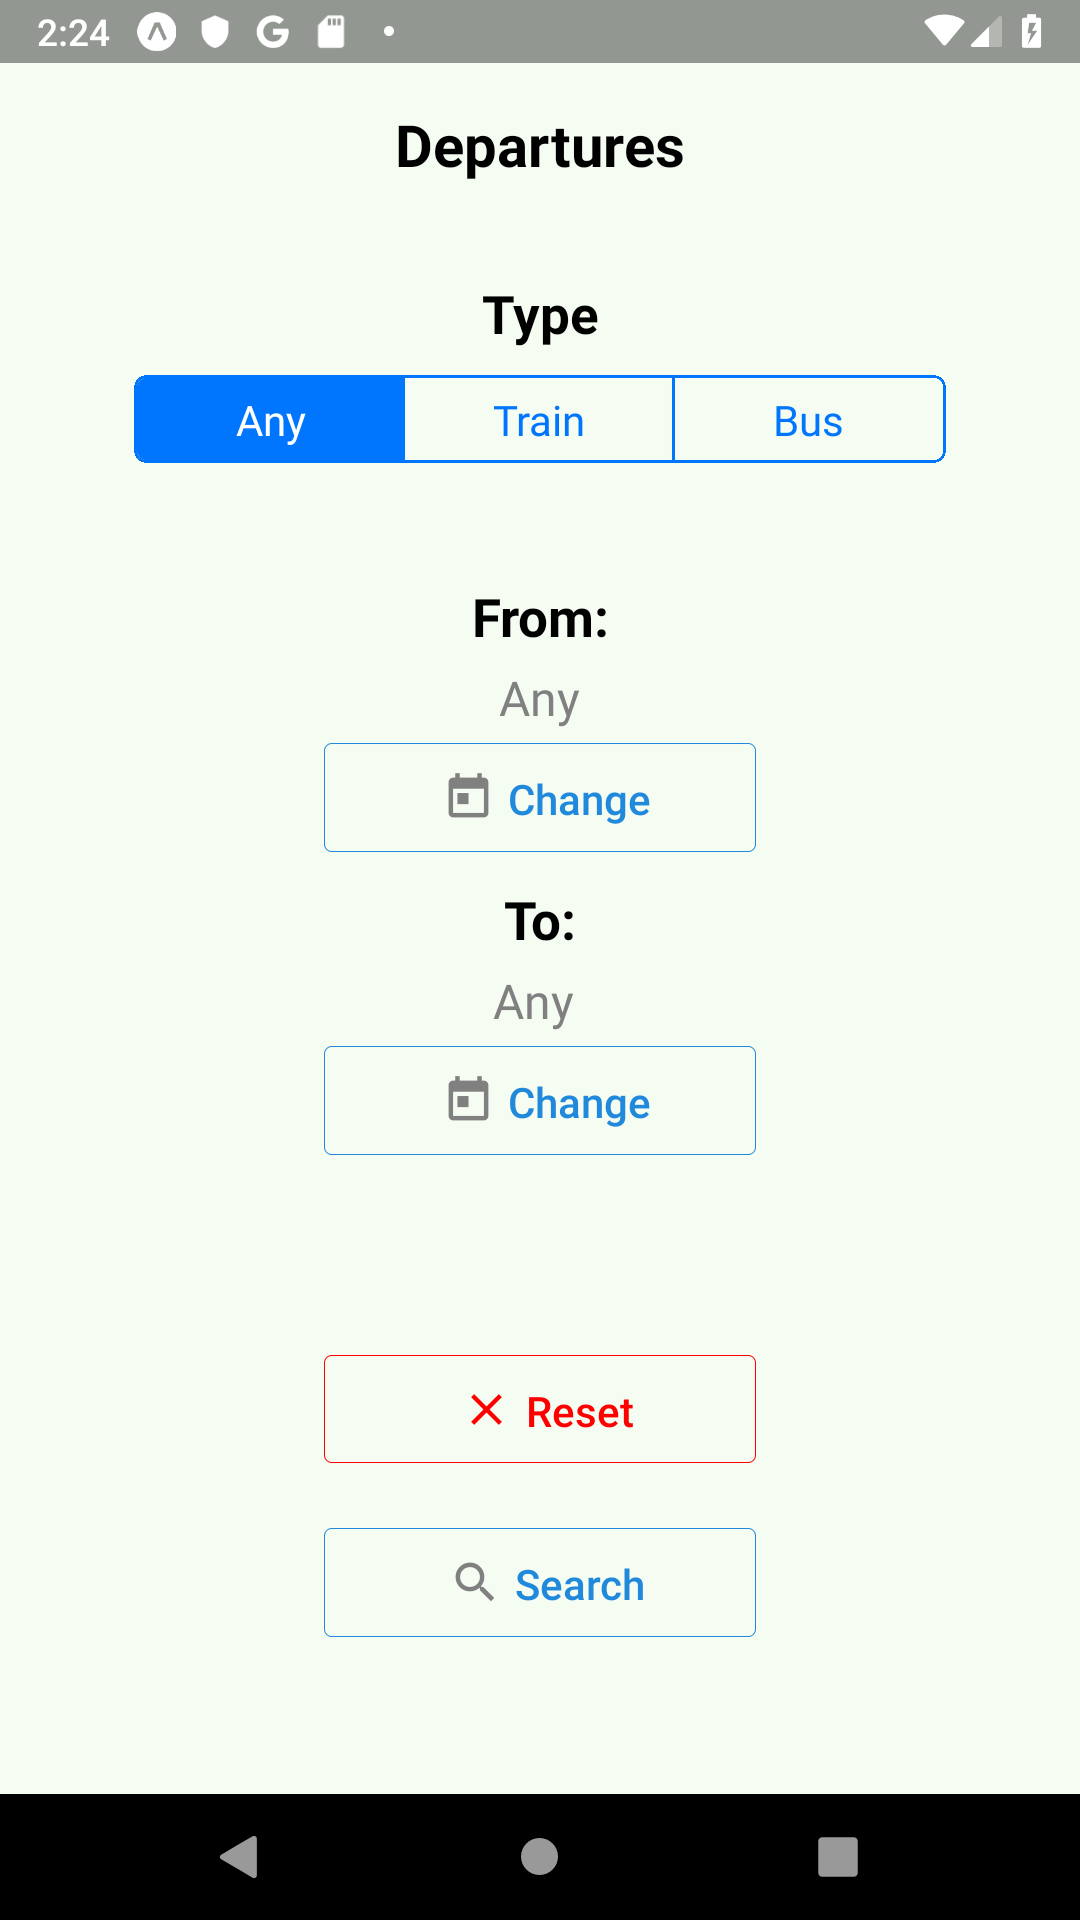
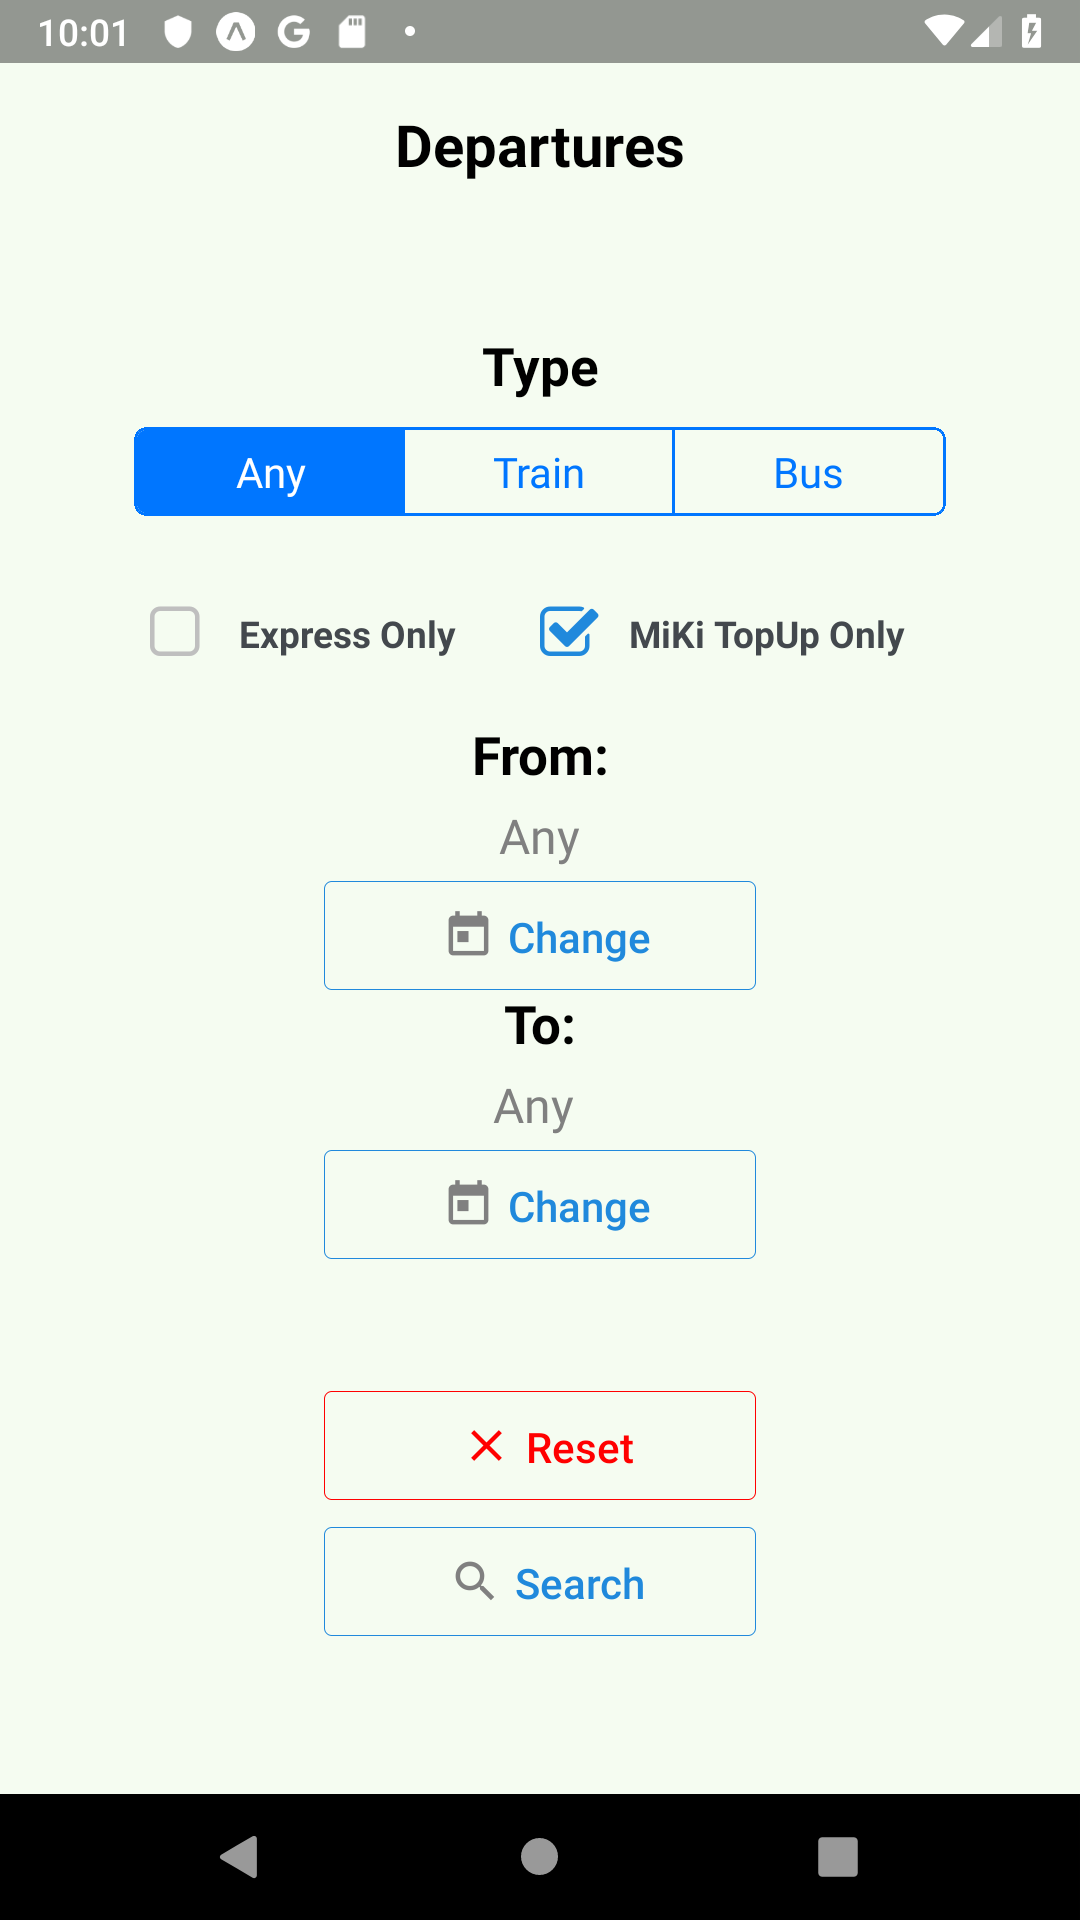
more filters

diff --git a/App.js b/App.js
@@ -2,7 +2,7 @@ import React, {Component} from 'react';
 import { StyleSheet, Text, View, SafeAreaView, Alert} from 'react-native';
 import DateTimePicker from "react-native-modal-datetime-picker";
 import SegmentedControlTab from "react-native-segmented-control-tab";
-import { Button } from 'react-native-elements';
+import { Button, CheckBox } from 'react-native-elements';
 import MapView from 'react-native-maps';
 import Modal from "react-native-modal";
 import Cache from './model/cache';
@@ -90,7 +90,9 @@ export default class App extends Component {
       type: -1,
       fromDate: null,
       toDate: null,
-      modes: []
+      modes: [],
+      topUpOnly: null,
+      expressOnly: null
     })
   }
 
@@ -108,6 +110,14 @@ export default class App extends Component {
 
     if (this.state.toDate) {
       filters.departureTimeMax = this.state.toDate;
+    }
+
+    if (this.state.expressOnly) {
+      filters.expressOnly = this.state.expressOnly;
+    }
+
+    if (this.state.topUpOnly) {
+      filters.topUpOnly = this.state.topUpOnly;
     }
 
     var app = this;
@@ -193,6 +203,25 @@ export default class App extends Component {
               enabled={!this.state.isLoading}
             />
           </View>
+        </View>
+
+        <View style={styles.checkBoxContainer}
+          pointerEvents={this.state.isLoading ? 'none' : 'auto'}
+        >
+          <CheckBox
+            center
+            containerStyle={styles.checkBox}
+            title='Express Only'
+            checked={this.state.expressOnly}
+            onPress={() => this.setState({expressOnly: !this.state.expressOnly})}
+          />
+          <CheckBox
+            center
+            containerStyle={styles.checkBox}
+            title='MiKi TopUp Only'
+            checked={this.state.topUpOnly}
+            onPress={() => this.setState({topUpOnly: !this.state.topUpOnly})}
+          />
         </View>
 
         <View style={styles.itemContainer}>
@@ -357,6 +386,19 @@ const styles = StyleSheet.create({
   button: {
     flex: 1,
     width: '40%',
+  },
+  checkBox: {
+    padding: 0,
+    margin:0,
+    backgroundColor: "#F5FCF1",
+    borderColor: "#F5FCF1",
+  },
+  checkBoxContainer: {
+    flexDirection: 'row',
+    justifyContent: 'center',
+    alignItems: 'center',
+    marginBottom: 20,
+    width: '100%',
   },
   top: {
     flex: 1,

diff --git a/__tests__/filter.test.js b/__tests__/filter.test.js
@@ -89,3 +89,39 @@ describe("Filter multiple fieids", () => {
           });
     });
 });
+
+describe("Filter by expressOnly", () => {
+    test("it should return 4 matches express only", () => {
+        const result = filterModes(modes, {expressOnly: true});
+  
+        expect(result.length).toBe(4);
+
+        result.forEach(item => {
+            expect(item.isExpress).toBeTruthy;
+        });
+    });
+
+    test("it should return all if not expressOnly", () => {
+        const result = filterModes(modes, {expressOnly: false});
+  
+        expect(result.length).toBe(13);
+    });
+});
+
+describe("Filter by topUpOnly", () => {
+    test("it should return 4 matches has topUp only", () => {
+        const result = filterModes(modes, {topUpOnly: true});
+  
+        expect(result.length).toBe(4);
+
+        result.forEach(item => {
+            expect(item.hasMyKiTopUp).toBeTruthy;
+        });
+    });
+
+    test("it should return all if not topUpOnly", () => {
+        const result = filterModes(modes, {topUpOnly: false});
+  
+        expect(result.length).toBe(13);
+    });
+});

diff --git a/model/filter.js b/model/filter.js
@@ -21,6 +21,18 @@ const filterables = {
         // console.log(itemTime, filterTime, itemTime <= filterTime)
         return itemTime <= filterTime;
     },
+    topUpOnly: (item, value) => {
+        if (!value) {
+            return true;
+        }
+        return item.hasMyKiTopUp; 
+    },
+    expressOnly: (item, value) => {
+        if (!value) {
+            return true;
+        }
+        return item.isExpress; 
+    },
 
     //Future expansion
     routeContains: (item, value) => {
